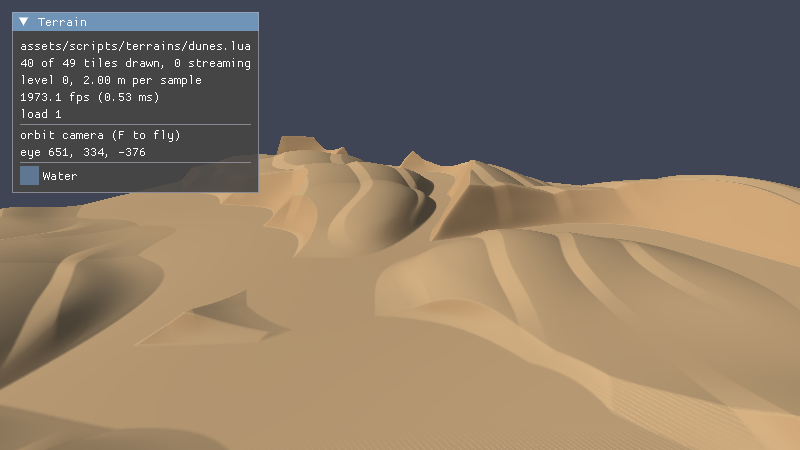
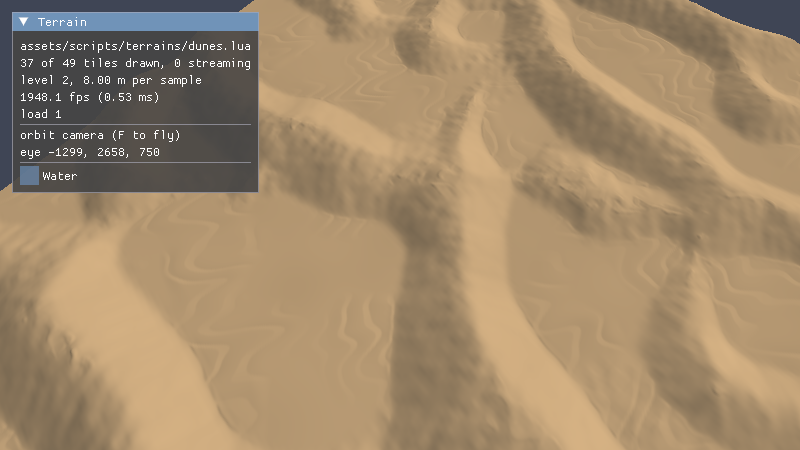
docs: dunes from the wind simulation

diff --git a/docs/lua_reference.md b/docs/lua_reference.md
@@ -968,34 +968,31 @@ build/Release/bin/terrain_viewer --script assets/scripts/shapes/mountain_range.l
 
 ```lua
 local function main(params)
-    return Dunes.Field{ seed = params.seed, wind = 20, wavelength = 650, height = 80 }
+    return Dunes.Field{ seed = params.seed, wind = 20 }
 end
 return main
 ```
 
-What it builds, all pointwise except the final settling:
+**The dunes come from the wind.** `Erosion.Wind` runs Werner's slab model on a periodic grid (192 x 192
+cells of 33 m by default, about 4 s, cached): slabs of sand are lifted and hop downwind, settle more
+readily on sand than on bare ground and always in the wind shadow behind a crest (15 degrees), and
+avalanche past the angle of repose; a fraction only creeps one cell (reptation), which rounds crests.
+Dunes form, migrate and merge. The starting sand varies over kilometres (`sand`, `variety`): where it is
+thick the wind builds tall sinuous ridges, where it is thin smaller ones and bare flats, so a field has
+dunes of every size. The grid tiles the plane (`Terrain.Grid{ wrap = true }`) in a frame turned to `wind`.
 
-1. **The dune profile** along the wind: a sawtooth (`x - Terrace(x)`) shaped into a long convex back
-   (`back`, 0.8 of a period) and a short straight slip face, with a sharp brink between them.
-2. **Crescents.** The distance along the wind is bent by a billow noise of the position across it;
-   billow's cusps are where two arcs meet, so the crests bow into barchan crescents with horns
-   downwind (`sinuosity`).
-3. **Vigour and flats.** A slow noise scales the dunes, so some chains are tall and others break into
-   separate barchans; below `flats` of a dune's height the ground is the interdune flat.
-4. **Small dunes** on the backs of the large ones, on a wind turned 25 degrees, cusp-free (`small`).
-5. **The swell** of the sand sea over kilometres (`swell`).
-6. **Settling:** a thermal pass at the angle of repose (`repose`, 33 degrees).
-
-`style = "star"` takes the highest of three fields at 120 degrees, which gives star dunes. The
-result carries `look = { palette = "sand", wind = wind }`, so the viewer draws sand with ripples
-across the wind on the gentle slopes.
+Then, on the GPU: the relief scaled by `relief` (0.7, which softens the transitions without changing the
+shapes), small dunes a few metres high in patches on the gentle backs (`small_wavelength`,
+`small_height`), the swell of the sand sea, and a light settling at the angle of repose. The viewer draws
+sand (`look`) with faint ripples across the wind.
 
 | Key | Default | |
 | --- | --- | --- |
 | `wind` | 20 | degrees, the direction the wind blows towards |
-| `wavelength`, `height` | 650 m, 80 m | between crests; dune height |
-| `sinuosity`, `back`, `flats`, `small`, `swell`, `repose` | 0.45, 0.8, 0.28, 0.12, 0.8, 33 | |
-| `style` | `"transverse"` | or `"star"` |
+| `sand`, `variety` | 55 m, 0.85 | mean starting sand and how much it varies |
+| `iterations`, `cells`, `cell`, `smooth` | 300, 192, 33 m, 1 | the simulation: more iterations, fewer and larger dunes |
+| `relief`, `small_wavelength`, `small_height`, `swell`, `repose` | 0.7, 240 m, 4 m, 30 m, 32 | the finish |
+| `style` | `"simulated"` | or `"star"`: the older pointwise pattern of three winds (`wavelength`, `height`, `sinuosity`, `back`, `flats`, `small`) |
 
 ```bash
 build/Release/bin/terrain_viewer --script assets/scripts/terrains/dunes.lua --view 200,-30,4000

diff --git a/docs/lua_api.md b/docs/lua_api.md
@@ -99,7 +99,8 @@ numbers drift, and this one is the index.
 | `Erosion.Thermal` | `Rn -> R1` | material slides past the talus, a **slope** (rise over run); `iterations` **is** the influence radius |
 | `Erosion.Hydraulic` | `Rn -> R1` value, `Rn -> R2` flow | rain, flow, sediment, evaporation; `capacity` is per unit slope; `flow` carries water on `x` and sediment on `y` |
 | `Erosion.StreamPower` | a list of numbers | CPU, not a graph op: stream-power erosion with uplift over a whole grid (`size`, `cell`, `height`, `uplift` lists x fastest; `iterations`, `k`, `m`, `talus`, `diffusion`, `refresh`), the drainage network no section can compute; feed the result to `Terrain.Grid` |
-| `Terrain.Grid` | `R2->R1` | a list of numbers (`values`, `size = { w, d }`, `origin`, `cell`) sampled with Catmull-Rom at `position` (default the world position), edge held outside |
+| `Terrain.Grid` | `R2->R1` | a list of numbers (`values`, `size = { w, d }`, `origin`, `cell`) sampled with Catmull-Rom at `position` (default the world position), edge held outside or repeated with `wrap = true` |
+| `Erosion.Wind` | a list of numbers | CPU, not a graph op: Werner's aeolian slab model over a periodic grid (`size`, `cell`, `slab`, `height`; `iterations`, `hop`, `p_sand`, `p_bare`, `shadow`, `repose`, `creep`, `smooth`, `seed`), wind along +x; feed the result to `Terrain.Grid{ wrap = true }` |
 | `Erosion.Gullies` | `R2->R1` | branching gullies cut across the slope of `input` from its gradient (`gradient`, default `Terrain.Gradient`), drawn at `position` (default the world position); `cell` metres, `octaves`, `strength` metres, `full` the slope of full effect. Pointwise: the drainage pattern at kilometre scale that the simulations cannot reach |
 
 `Filters.Blur`, `Terrain.Gradient` and the two erosions are what put a halo on a graph: their radii

diff --git a/docs/decisions.md b/docs/decisions.md
@@ -1203,3 +1203,12 @@ heightmaps) and how each became a step of `Dunes.Field`:
 * **Colour does a lot.** Sand needs its own palette; the viewer gets it through a new `look` key in the
   returned table, with ripples across the wind drawn in the shader (a few metres apart, larger than real,
   so a camera at 300 m sees them).
+
+**Revised: dunes from a wind simulation.** The pointwise pattern was judged too abrupt, too uniform in
+size, and its ripples too strong. Tools and papers on desert scenery (Werner 1995; Beneš and Roa 2004,
+"Simulating desert scenery"; Desertscape simulation) all move sand rather than draw it, so the default is
+now `Erosion.Wind`, Werner's slab model with shadow, avalanche and reptation. What tuning it showed:
+too few iterations leave grain, too many merge everything into a few huge dunes with wide bare flats;
+more starting sand gives continuous ridges, and varying it gives the mix of sizes; slab heights make the
+simulated dunes steep for their size, so the relief is scaled down rather than smoothed away. GLSL's
+`%` on a negative int is undefined, which drew a seam where the periodic grid wrapped.
